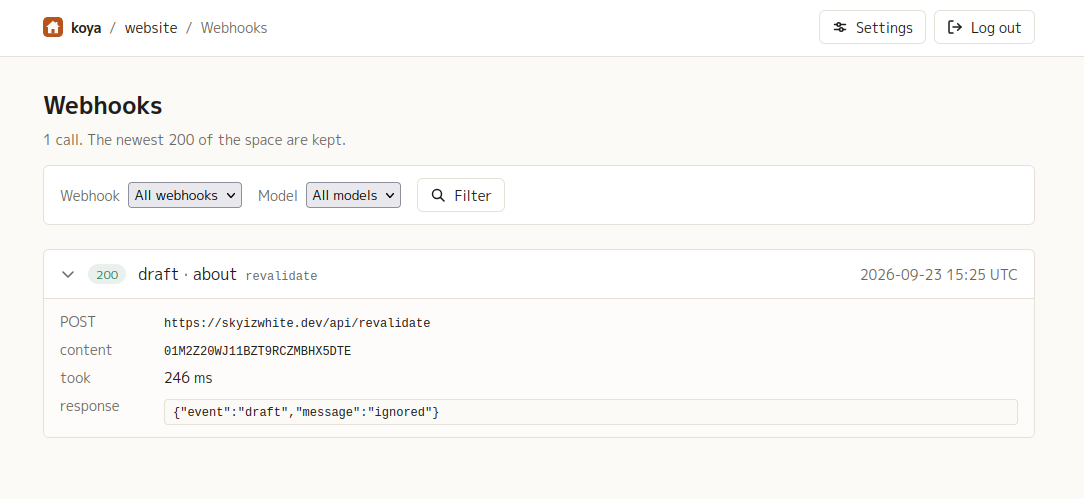
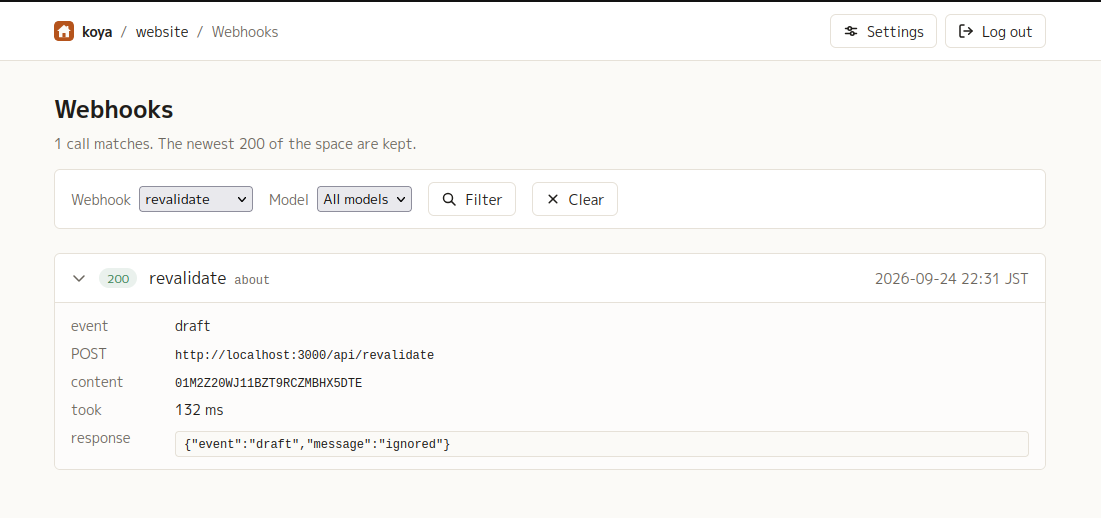
The admin UI works down to a phone's width
No page scrolls sideways at 375px. The header's crumbs wrap and cut a
long label short, and Settings and Log out become icons; title rows
wrap their buttons; the media library and picker dialogs fill a phone's
screen. A webhook log row names the webhook and the model, with the
model and the time going to a second line on a narrow screen; the event
moves into the opened row.

Closes #1

diff --git a/assets/style/global.css b/assets/style/global.css
@@ -73,6 +73,12 @@ dialog.koya-dialog {
 dialog.koya-dialog[open] {
   @apply m-auto;
 }
+/* A library-sized dialog takes the whole of a phone's screen rather than a sliver of it. */
+@media (width < 40rem) {
+  dialog.koya-dialog-wide[open] {
+    @apply m-0 h-dvh max-h-none w-screen max-w-none overflow-y-auto rounded-none border-0;
+  }
+}
 dialog.koya-dialog::backdrop {
   background: rgb(31 29 26 / 0.4);
 }

diff --git a/docs/ADMIN-UI.md b/docs/ADMIN-UI.md
@@ -50,6 +50,10 @@ no user accounts: whoever knows the secret is the owner.
   server.
 - Every page has **Log out** in the header; form submissions from another origin
   are rejected.
+- The UI works down to a phone's width (375px): the page itself never scrolls
+  sideways, though a wide table scrolls inside its own box. On a narrow screen
+  the header's **Settings** and **Log out** are icons, its crumbs wrap, and the
+  media library and picker dialogs fill the screen.
 
 ## Spaces
 
@@ -292,8 +296,8 @@ into it.
 ## The webhook delivery log
 
 `/s/{space}/webhooks` is the last 200 calls the space made, newest first, 20 to
-a page; **View log →** on the space page opens it. A row names the event, the model and the webhook's label, and carries
-the outcome as a badge:
+a page; **View log →** on the space page opens it. A row names the webhook's
+label and the model, and carries the outcome as a badge:
 
 | Badge | Meaning |
 |---|---|
@@ -301,7 +305,7 @@ the outcome as a badge:
 | any other status, red | it answered, and refused |
 | *no response*, amber | the call never arrived: DNS, a refused connection, a timeout |
 
-Opening a row shows the URL it posted to, a link to the content that changed,
+Opening a row shows the event, the URL it posted to, a link to the content that changed,
 how long the call took, the error when there was one, and **the response body**
 as the receiver sent it — the first 4000 characters of it, which is where a
 revalidation hook's own error message usually is.
